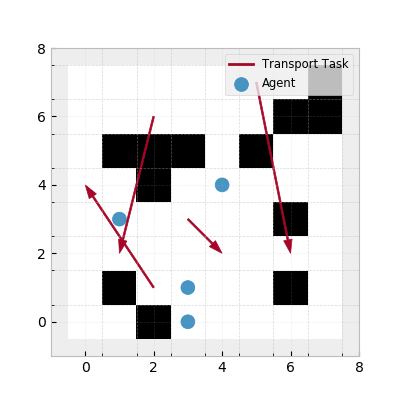
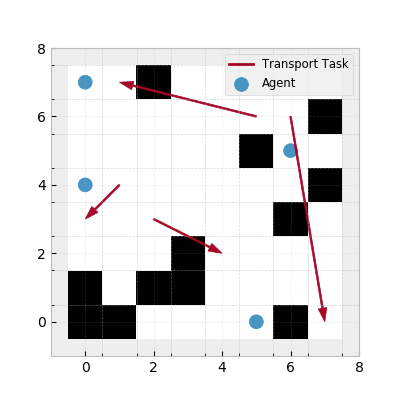
a cache folder

diff --git a/planner/eval/random_figure.py b/planner/eval/random_figure.py
@@ -1,10 +1,14 @@
+import hashlib
+
 from planner.cbs_ext_test import get_data_random
 from planner.eval.display import plot_inputs, plot_results
 from planner.tcbs.plan import plan, generate_config
 
 import matplotlib.pyplot as plt
 
-params = get_data_random(21,
+from tools import get_map_str
+
+params = get_data_random(330,
                          map_res=8,
                          map_fill_perc=20,
                          agent_n=4,
@@ -12,8 +16,13 @@ params = get_data_random(21,
                          idle_goals_n=0)
 agent_pos, grid, idle_goals, jobs = params
 
+mapstr = get_map_str(grid)
+maphash = str(hashlib.md5(mapstr.encode('utf-8')).hexdigest())[:8]
+fname = "planner/eval/cache/" + str(maphash) + '.pkl'  # unique filename based on map
+
 config = generate_config()
 config['finished_agents_block'] = True
+config['filename_pathsave'] = fname
 
 res_agent_job, res_agent_idle, res_paths = plan(agent_pos, jobs, [], [], grid, config, plot=False)
 f = plt.figure()

diff --git a/planner/eval/eval_comparison_test.py b/planner/eval/eval_comparison_test.py
@@ -48,7 +48,7 @@ def one_planner(config, size):
 
 
 def planner_comparison(seed):
-    the_seed = seed+10
+    the_seed = seed+330
     print("seed: " + str(the_seed))
     params = get_data_random(the_seed,
                              map_res=8,
@@ -94,7 +94,7 @@ def planner_comparison(seed):
         print("Configs: [config_opt, config_nn, config_milp, config_cobra, config_greedy]")
         configs = [config_opt, config_nn, config_milp, config_cobra, config_greedy]
         sizes = [2, 3, 4]
-    ts, ress = benchmark(one_planner, [configs, sizes], samples=1, timeout=240)
+    ts, ress = benchmark(one_planner, [configs, sizes], samples=1, timeout=600)
 
     return ts, ress
 
@@ -105,7 +105,7 @@ def test_planner_comparison():
     thread.start()
 
     if is_cch():
-        n_samples = 5
+        n_samples = 1
     else:
         n_samples = 30
 
